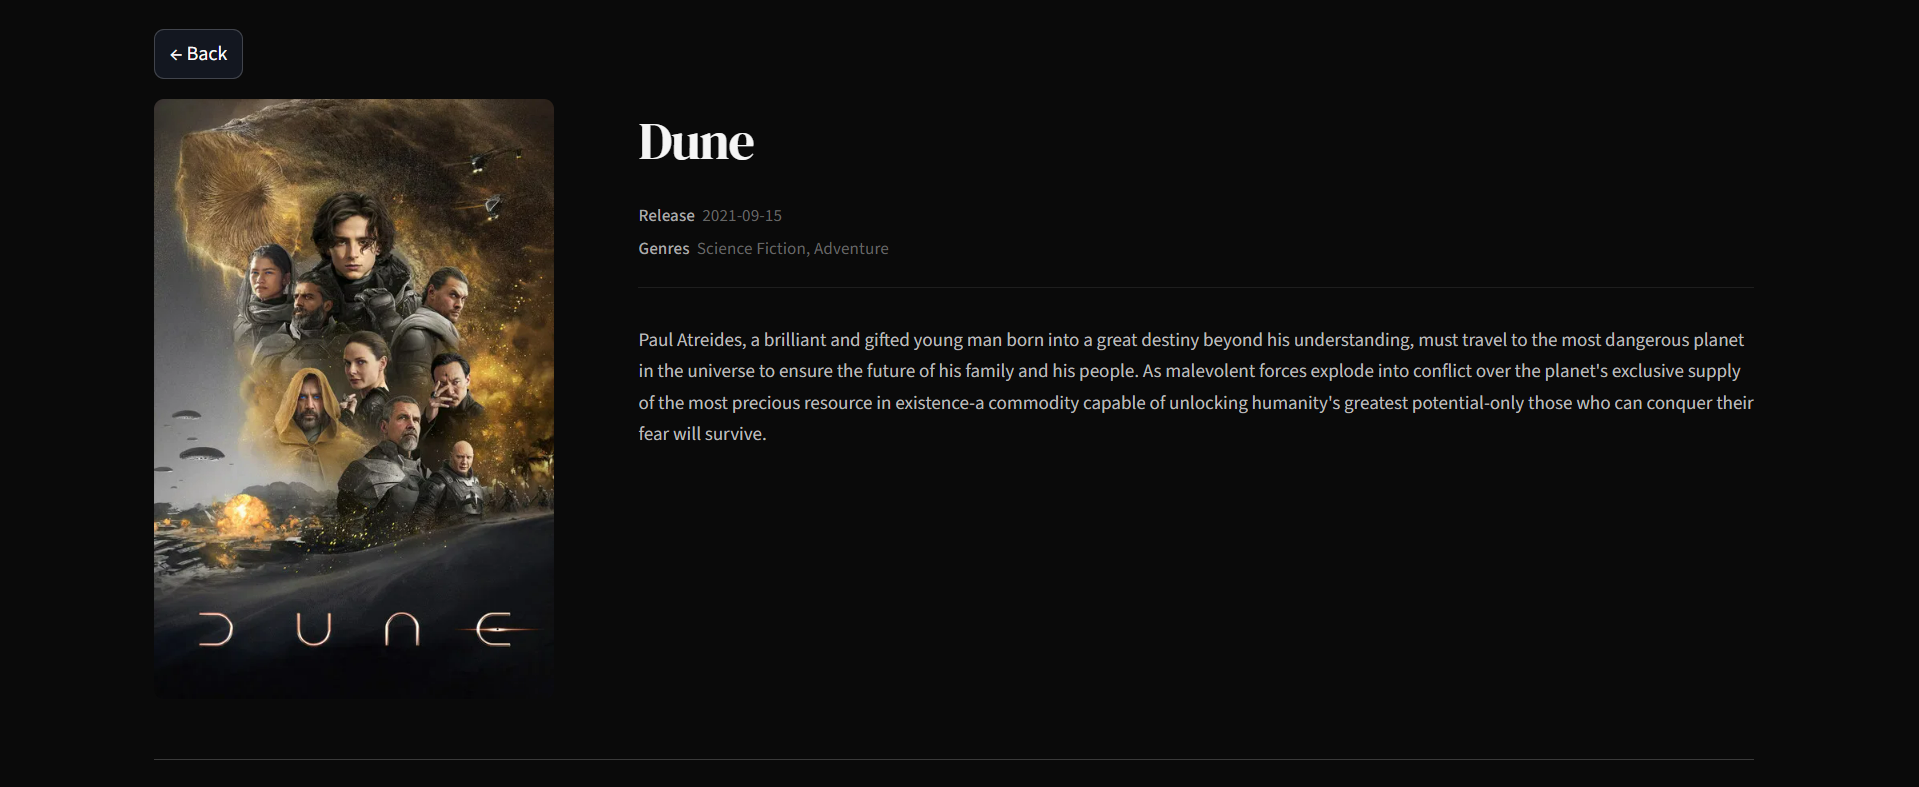
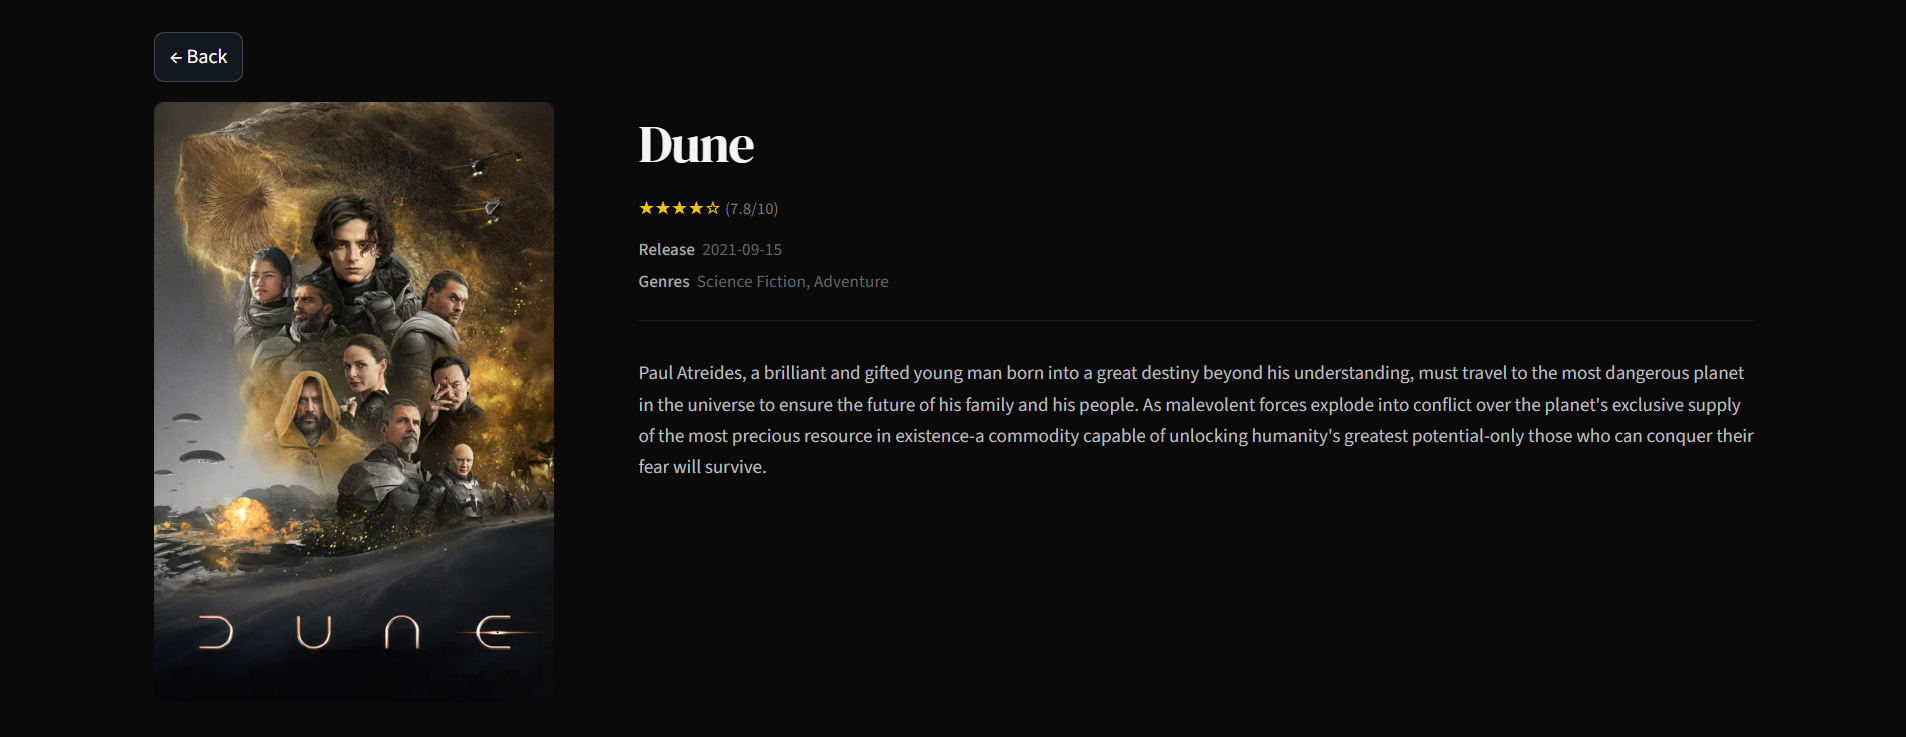
Updated app

Changed region(s): [[0.0619, 0.1248, 0.9286, 0.905], [0.3095, 0.156, 0.4024, 0.2185], [0.0619, 0.0312, 0.1238, 0.0936]]

diff --git a/app.py b/app.py
@@ -334,7 +334,7 @@ def poster_grid(cards, cols=6, key_prefix="grid"):
             poster  = m.get("poster_url")
             with col_set[c]:
                 if poster:
-                    st.image(poster, width=200)
+                    st.image(poster, width="content")
                 else:
                     st.markdown(
                         "<div style='aspect-ratio:2/3;background:#1a1a1a;border-radius:10px;"
@@ -570,7 +570,7 @@ elif st.session_state.view == "details":
         st.markdown(f"<div class='detail-title'>{data.get('title','')}</div>", unsafe_allow_html=True)
 
         rating_html = ""
-        if rating:
+        if rating is not None:
             stars = "★" * round(rating / 2) + "☆" * (5 - round(rating / 2))
             rating_html = (
                 f"<span style='color:#e5c419;font-size:0.95rem;letter-spacing:.04em'>{stars}</span>"
@@ -628,7 +628,7 @@ elif st.session_state.view == "details":
                     "<div class='section-label' style='font-size:1.1rem'>🎭 More Like This</div>",
                     unsafe_allow_html=True,
                 )
-                poster_grid(genre_movies)
+                poster_grid(genre_movies, cols=grid_cols)
         else:
             st.info("Showing genre-based recommendations.")
             with st.spinner("Loading genre recommendations…"):

diff --git a/main.py b/main.py
@@ -60,6 +60,7 @@ class TMDBMovieDetails(BaseModel):
     release_date: Optional[str] = None
     poster_url: Optional[str] = None
     backdrop_url: Optional[str] = None
+    vote_average: Optional[float] = None
     genres: List[dict] = []
 
 class TFIDFRecItem(BaseModel):
@@ -135,6 +136,7 @@ async def tmdb_movie_details(movie_id: int) -> TMDBMovieDetails:
         release_date = data.get("release_date"),
         poster_url = make_img_url(data.get("poster_path")),
         backdrop_url = make_img_url(data.get("backdrop_path")),
+        vote_average = data.get("vote_average"),
         genres = data.get("genres", []) or [],
     )
 
@@ -193,7 +195,7 @@ def get_local_idx_by_title(title: str) -> int:
         return int(TITLE_TO_IDX[key])
     raise HTTPException(
         status_code=404,
-        detail = f"Title not found in local dataset: '{title}"
+        detail = f"Title not found in local dataset: '{title}'"
     )
 
 def tfidf_recommend_titles(
